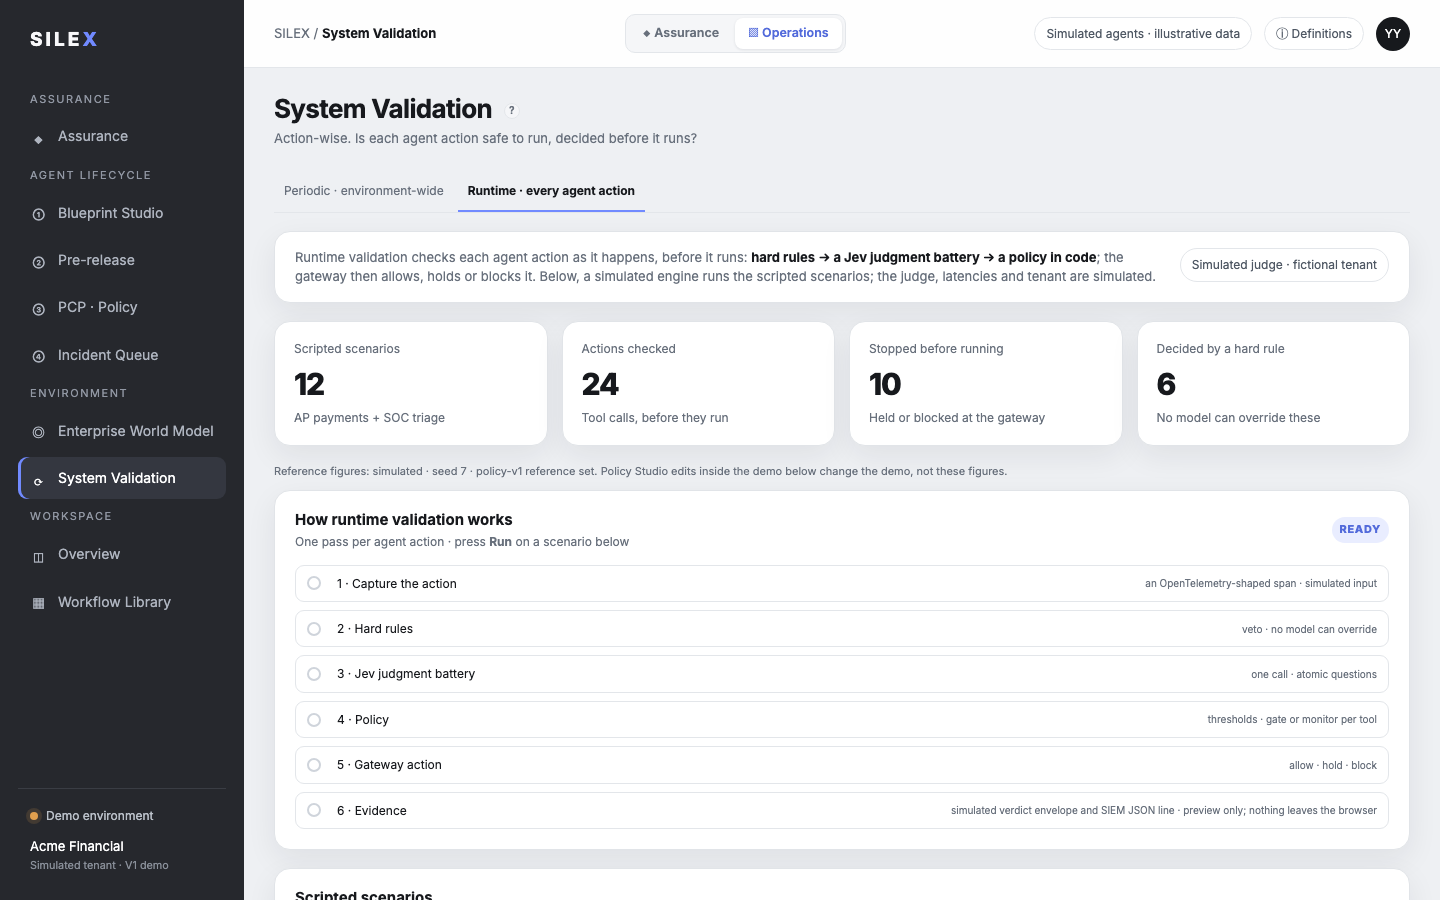
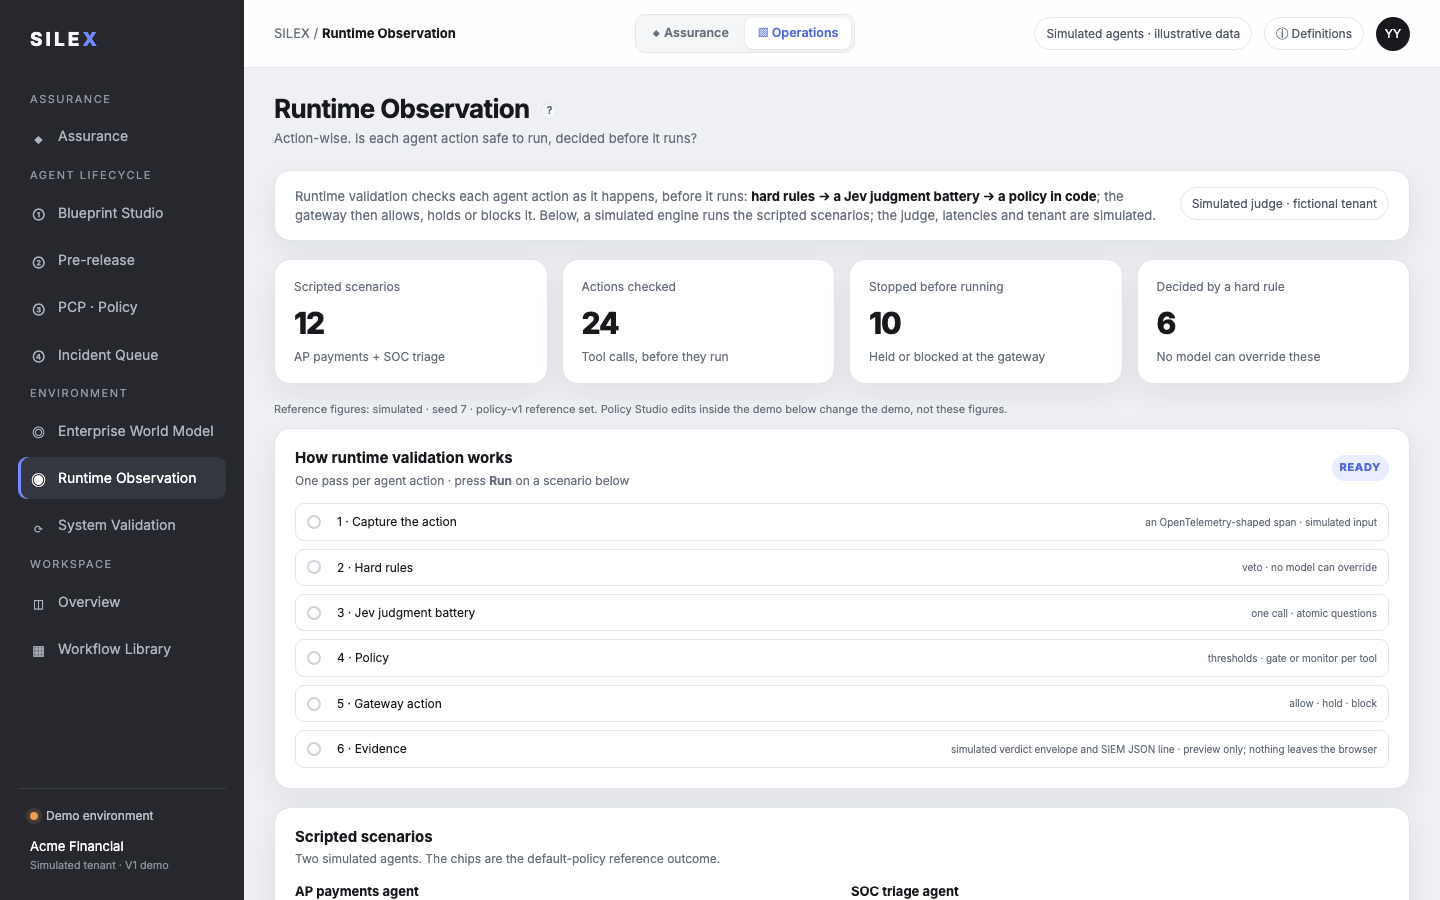
Guide §8 and jev-work-plan skill: the mockup view is now Runtime Observation (#view=runtime-observation); screenshots 08-10 retaken; day plan notes the repo rename

diff --git a/skills/jev-work-plan/SKILL.md b/skills/jev-work-plan/SKILL.md
@@ -7,7 +7,7 @@ description: Resume or continue the dated work plan for jev-runtime-observabilit
 
 ## Where things stand (update this when a plan closes)
 
-Last updated 2026-09-30, at `main` `77dc838` (silex-mockup `643f116`). Both repos are pushed, and their local `main` equals `origin/main`.
+Last updated 2026-09-30 (jev `main` is this commit; silex-mockup `bbf3a7d`). Both repos are pushed, and their local `main` equals `origin/main`.
 
 **Renamed 2026-09-30:** this repo was `jev-realtime-observability`. It is now `silex-ai-lab/jev-runtime-observability`, checked out at `~/workplace/Silex/jev-runtime-observability`. GitHub redirects the old URL.
 - The live references were updated: `package.json`, READMEs, these skills, the deploy templates, the server banner, the guide, and the mockup's sync tool, `VENDORED.json` and READMEs.
@@ -31,8 +31,8 @@ Last updated 2026-09-30, at `main` `77dc838` (silex-mockup `643f116`). Both repo
      - `/demo/index.html?domain=soc`, with an `AP | SOC` switch in the header;
      - SOC1–SOC5 are simulated with the console's rules;
      - SOC5 is the one labelled difference: synthetic `goal_deviation` scores hold the 2nd and 3rd suspensions for review, while the live console does not block SOC5.
-  4. **silex-mockup integration** (`silex-mockup/logs/2026-09-30_JEV_RUNTIME_VALIDATION_PLAN.md`, deployed to https://silex-mockup.vercel.app/#view=long-term&tab=runtime):
-     - System Validation gains a *Runtime · every agent action* tab that embeds this demo;
+  4. **silex-mockup integration** (`silex-mockup/logs/2026-09-30_JEV_RUNTIME_VALIDATION_PLAN.md`, deployed to https://silex-mockup.vercel.app/#view=runtime-observation):
+     - the site's left nav has a **Runtime Observation** view, between Enterprise World Model and System Validation, that embeds this demo. It started as a System Validation tab and was moved by `silex-mockup/logs/2026-09-30_RUNTIME_OBSERVE_VIEW_PLAN.md`; the old `#view=long-term&tab=runtime` link redirects;
      - the demo is vendored byte-for-byte in `silex-mockup/jev-runtime/` (currently from `efce258`);
      - this repo gained `?embed=1`, a validated `?back`, and the Runs view's `select(runId)`.
      - **After any change to `web/demo`, `web/js/runs.js`, `verdict.js` or `web/css/runs.css`,** re-sync the mockup, then run its suites and deploy with the user's OK:
@@ -50,7 +50,7 @@ Last updated 2026-09-30, at `main` `77dc838` (silex-mockup `643f116`). Both repo
        ```
 
      - The older AP-only `silex-mockup/jev-observability/` stays live, unchanged, and is marked superseded.
-  5. **Plain-language guide** (Chinese, 10 screenshots) to every demo page and the mockup's Runtime tab. Identical copies are in this repo (`docs/demo/guide/`) and in silex-mockup (`docs/jev-runtime-guide/`).
+  5. **Plain-language guide** (Chinese, 10 screenshots) to every demo page and the mockup's Runtime Observation view. Identical copies are in this repo (`docs/demo/guide/`) and in silex-mockup (`docs/jev-runtime-guide/`).
      - When the demo UI changes, retake the screenshots and update both copies together. The screenshots were taken with headless Chrome at 1440 × 900 through the Chrome DevTools Protocol; the helper script was a session scratch file and is not in either repo.
      - Its numbers are simulated, with ±0.04 jitter, and the guide says so.
 - **Open follow-ups** (non-blocking review notes, not done; details at the end of each log):
@@ -63,7 +63,7 @@ Last updated 2026-09-30, at `main` `77dc838` (silex-mockup `643f116`). Both repo
     - the `QUESTIONS_BY_AGENT` lookup should use `Object.hasOwn`;
     - separate stop and watch counters for mixed-mode runs.
   - **Model:** the 4B fine-tune recipe (above).
-  - **Mockup Runtime tab:** every Run waits for the six-step animation (about 1.6 s), even when the frame is ready. That is fine for a demo; a faster path is possible.
+  - **Mockup Runtime Observation view:** every Run waits for the six-step animation (about 1.6 s), even when the frame is ready. That is fine for a demo; a faster path is possible.
 - **silex-mockup** (`~/workplace/Silex/silex-mockup`, https://github.com/silex-security/silex-mockup):
   - serve it locally with `python3 -m http.server 8797 --bind 127.0.0.1`;
   - tests: `node --test tests/site/*.test.mjs` (20/20) and `node tests/site/run-site-probes.mjs` (19/19).

diff --git a/docs/demo/guide/README.md b/docs/demo/guide/README.md
@@ -156,20 +156,22 @@ AI agent（比如替财务付款的 agent、替安全团队处理告警的 agent
 
 ---
 
-## 8. 在 Silex mockup 里：System Validation → Runtime
+## 8. 在 Silex mockup 里：Runtime Observation
 
-线上地址：<https://silex-mockup.vercel.app/#view=long-term&tab=runtime>
+线上地址：<https://silex-mockup.vercel.app/#view=runtime-observation>
 
-### 8.1 Runtime 标签页总览
+### 8.1 Runtime Observation 总览
 
-![Runtime 标签页](08-runtime-tab.png)
+![Runtime Observation](08-runtime-tab.png)
 
-Silex 主站的 **System Validation** 有两个标签页：
+Silex 主站左侧导航的 **Environment** 组里，**Runtime Observation** 是独立的一项，位于 Enterprise World Model 下面、System Validation 上面：
 
-- **Periodic · environment-wide**：原来的“定期、全环境”验证，比如每月一次；
-- **Runtime · every agent action**：“每个动作、实时”的验证，也就是这个 demo。
+- **System Validation**：“定期、全环境”的验证，比如每月一次；
+- **Runtime Observation**：“每个动作、实时”地观察和验证，也就是这个 demo。
 
-Runtime 页上方：
+旧链接 `#view=long-term&tab=runtime` 会自动跳转到这里。
+
+Runtime Observation 页上方：
 
 - **四个参考数字**，由模拟引擎在默认策略下算出：12 个脚本场景、检查 24 个动作、10 个在执行前被拦下或暂停、6 个由硬规则决定。旁边注明了这是参考值：在下面嵌入的 demo 里改策略，不会改变这几个数。
 - **How runtime validation works**：六步流程。
@@ -194,7 +196,7 @@ Runtime 页上方：
 
 ![嵌入的 demo](10-runtime-embedded.png)
 
-点 Run 后，页面会滚到下方嵌入的 demo：它自动切到对应的 agent，并选中刚跑的那次运行。在这里可以做第 1–7 节介绍的所有事。右上角 **Open full page →** 用整页打开，左上角的返回链接回到这个标签页。
+点 Run 后，页面会滚到下方嵌入的 demo：它自动切到对应的 agent，并选中刚跑的那次运行。在这里可以做第 1–7 节介绍的所有事。右上角 **Open full page →** 用整页打开，左上角的返回链接回到 Runtime Observation。
 
 ---
 

diff --git a/skills/jev-work-plan/plans/2026-09-30.md b/skills/jev-work-plan/plans/2026-09-30.md
@@ -5,7 +5,7 @@ Previous day: [`2026-09-29.md`](2026-09-29.md) (closed; its Log has the full his
 
 ## Context (as of the plan's creation)
 
-- **Repo:** `github.com/silex-ai-lab/jev-realtime-observability`, branch `main`, HEAD `3d16c9f` when this plan was written.
+- **Repo:** `github.com/silex-ai-lab/jev-realtime-observability`, branch `main`, HEAD `3d16c9f` when this plan was written. Renamed later that day to `silex-ai-lab/jev-runtime-observability`; GitHub redirects the old URL.
 - **Done on 2026-09-29** (two reviewed fleet runs, records in `logs/`):
   - batch 1, [`logs/2026-09-29_WORKPLAN_BATCH1_PLAN.md`](../../../logs/2026-09-29_WORKPLAN_BATCH1_PLAN.md):
     - T1 backlog;
